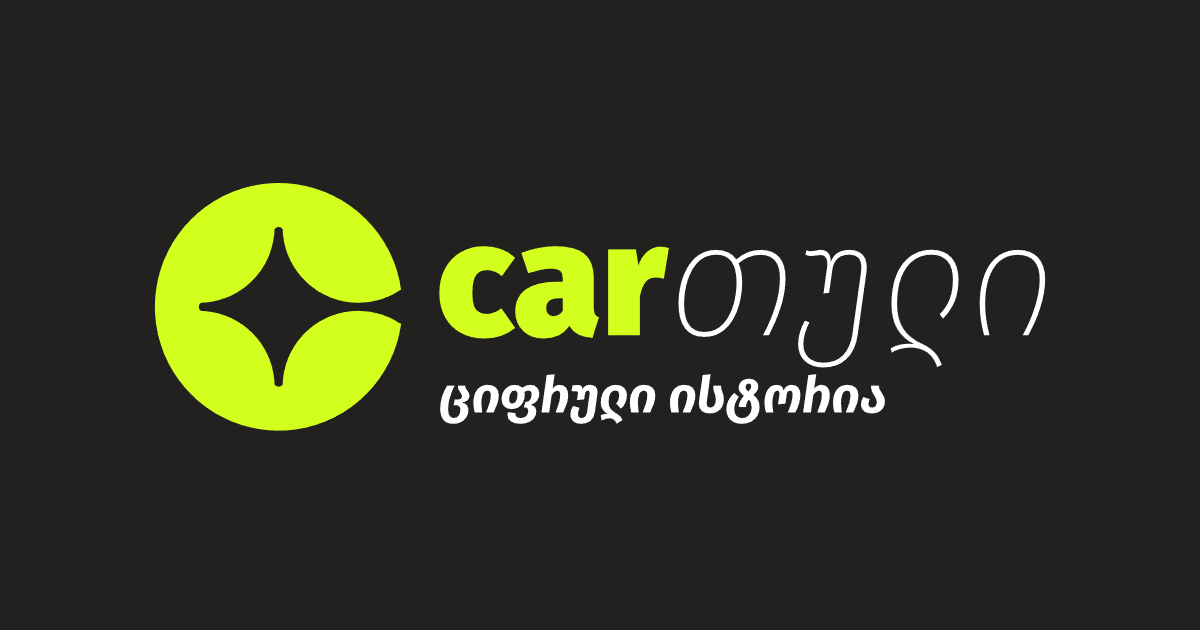
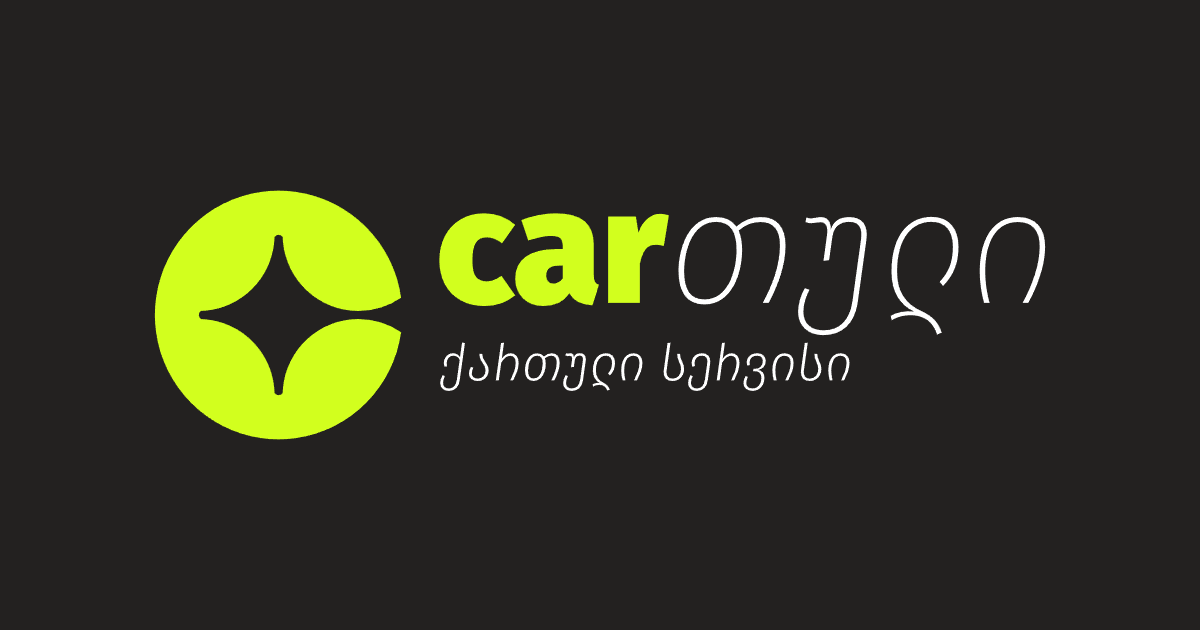
Update site from cartool@bf09ea1

diff --git a/index.html b/index.html
@@ -11,6 +11,8 @@
           content="სამუშაოები, კლიენტები, სალარო და მარაგი — ერთ პროგრამაში, ინტერნეტის გარეშე.">
     <meta property="og:image" content="https://cartooli.ge/assets/og-image.png">
     <meta property="og:type" content="website">
+    <meta property="og:url" content="https://cartooli.ge/">
+    <link rel="canonical" href="https://cartooli.ge/">
     <meta name="theme-color" content="#101820">
     <link rel="icon" href="assets/favicon.svg" type="image/svg+xml">
     <link rel="apple-touch-icon" href="assets/apple-touch-icon.png">
@@ -704,7 +706,7 @@
 <header>
     <div class="wrap nav">
         <a href="#" aria-label="cartooli"><img src="assets/logo-horizontal-on-dark.svg"
-                                               alt="cartooli — ციფრული ისტორია"></a>
+                                               alt="cartooli — ქართული სერვისი"></a>
         <ul>
             <li><a href="#together" data-i18n="nav.together">დაფა + სალარო</a></li>
             <li><a href="#features" data-i18n="nav.features">შესაძლებლობები</a></li>
